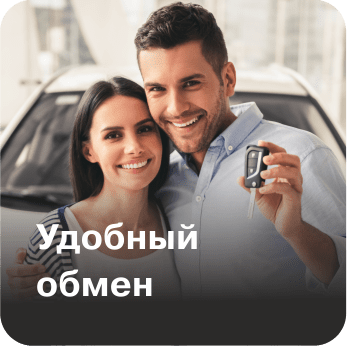
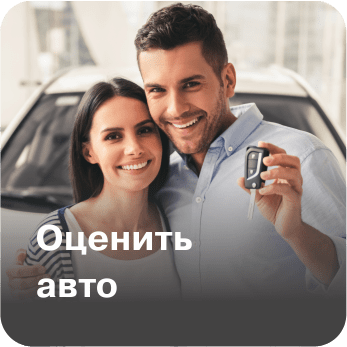
#buttons Заменил изображения блока кнопок и добавил блок кнопок на страницу моделей

diff --git a/resources/js/components/elements/ButtonsComponent2.vue b/resources/js/components/elements/ButtonsComponent2.vue
@@ -1,0 +1,112 @@
+<template>
+    <section class="buttons-block container p-top-40">
+        <ul class="buttons-block-list">
+            <li>
+                <img id="main__image-buttons__profitable-credit" class="buttons-block-list-credit event" src="/build/images/main/buttons_block/profitable_credit.png" alt="Брайт Парк: выгодный кредит"
+                     v-on:click.prevent="show('Рассчитать кредит', 'main__modal-image-buttons-profitable-credit_', 'Отправить', 1, 'credit')"/>
+            </li>
+            <li>
+                <img id="main__image-buttons__exchange" class="buttons-block-list-exchange event" src="/build/images/main/buttons_block/exchange.png" alt="Брайт Парк: обмен"
+                v-on:click.prevent="show('Оценить авто', 'main__modal-image-buttons-exchange_', 'Отправить', 1, 'obmen')"/>
+            </li>
+            <li>
+                <img id="main__image-buttons__special-offer" class="buttons-block-list-special-offer event" src="/build/images/main/buttons_block/special_offer.png" alt="Брайт Парк: Получить специальное предложение"
+                     v-on:click.prevent="show('Получить специальное предложение', 'main__modal-image-buttons-special-offer_', 'Отправить', 1, 'special_offer')"/>
+            </li>
+            <li>
+                <img id="main__image-buttons__test-drive" class="buttons-block-list-test-drive event" src="/build/images/main/buttons_block/test_drive.png" alt="Брайт Парк: тест-драйв"
+                v-on:click.prevent="show('Записаться на тест-драйв', 'main__modal-image-buttons-test-drive_', 'Записаться', 1, 'test_drive')"/>
+            </li>
+        </ul>
+
+        <modal name="form-callback2" height="auto" :adaptive="true">
+            <div :id="form_id + '_close'" class="close event" @click="hide"></div>
+            <form-buy2-component :cities="cities"
+                                 :form_title="form_title"
+                                 :form_id="form_id"
+                                 :button_text="button_text"
+                                 :form_type="form_type"
+                                 :goal="goal">
+            </form-buy2-component>
+        </modal>
+    </section>
+</template>
+
+<script>
+    export default {
+        name: "Buttons2",
+        props: ['cities'],
+        data: function () {
+            return {
+                modalWidth: window.innerWidth -20,
+                form_id: '',
+                form_title: '',
+                button_text: '',
+                form_type: 1,
+                goal: '',
+                uri_params: window.location.search,
+            }
+        },
+        components: {},
+        methods: {
+            show (title, form_id, button_text, form_type, goal) {
+                this.form_title = title;
+                this.form_id = form_id;
+                this.button_text = button_text;
+                this.form_type = form_type; // 1 - обычная форма, 2 - форма сервиса
+                this.goal = goal;
+                this.$modal.show('form-callback2');
+                () => {
+                    callibriInit();
+                }
+            },
+            hide () {
+                this.$modal.hide('form-callback2');
+            },
+        },
+        created () {
+            this.modalWidth = window.innerWidth -20
+        },
+    }
+</script>
+
+<style scoped lang="scss">
+    .buttons-block {
+        &-list {
+            display: flex;
+            justify-content: center;
+            align-items: center;
+            flex-wrap: wrap;
+            li {
+                width: 49%;
+                padding: 10px;
+                cursor: pointer;
+
+                &:hover img {
+                    filter: brightness(110%);
+                }
+            }
+
+            img {
+                width: 100%;
+                height: 100%;
+                transition: all .3s ease;
+            }
+        }
+    }
+
+    @media only screen and (max-width: 579px) {
+        .buttons-block {
+            margin-top: 60px
+        }
+    }
+
+
+    @media only screen and (min-width: 580px) {
+        .buttons-block {
+            &-list {
+                flex-wrap: nowrap;
+            }
+        }
+    }
+</style>

diff --git a/resources/js/app.js b/resources/js/app.js
@@ -59,6 +59,7 @@ Vue.component('event-handler-component', require('./components/events/EventHandl
 Vue.component('scroll-event-handler-component', require('./components/events/ScrollEventHandlerComponent').default);
 Vue.component('baraban', require('./components/retargeting/Baraban').default);
 Vue.component('buttons-component', require('./components/elements/ButtonsComponent').default);
+Vue.component('buttons-component-2', require('./components/elements/ButtonsComponent2').default);
 Vue.component('banner-component', require('./components/elements/BannerComponent').default);
 Vue.component('review-service', require('./components/service/ReviewService').default);
 Vue.component('trust-us', require('./components/service/TrustUs').default);

diff --git a/resources/views/model.blade.php b/resources/views/model.blade.php
@@ -18,7 +18,7 @@
                           :phone='@json($cities['active']['phone'])'
                           :phone_formatted='@json($cities['active']['phone_format'])'
         ></hooper-component>
-
+        <buttons-component-2 :cities='@json($cities)'></buttons-component-2>
         @foreach ($data['blocks'] as $key => $block)
             <info-component :block='@json($block)' :n='@json($key)' :model='@json($data['model_id'])' :type='@json($data['type_id'])' :data='@json($data)'></info-component>
             @if ($key === 1)
